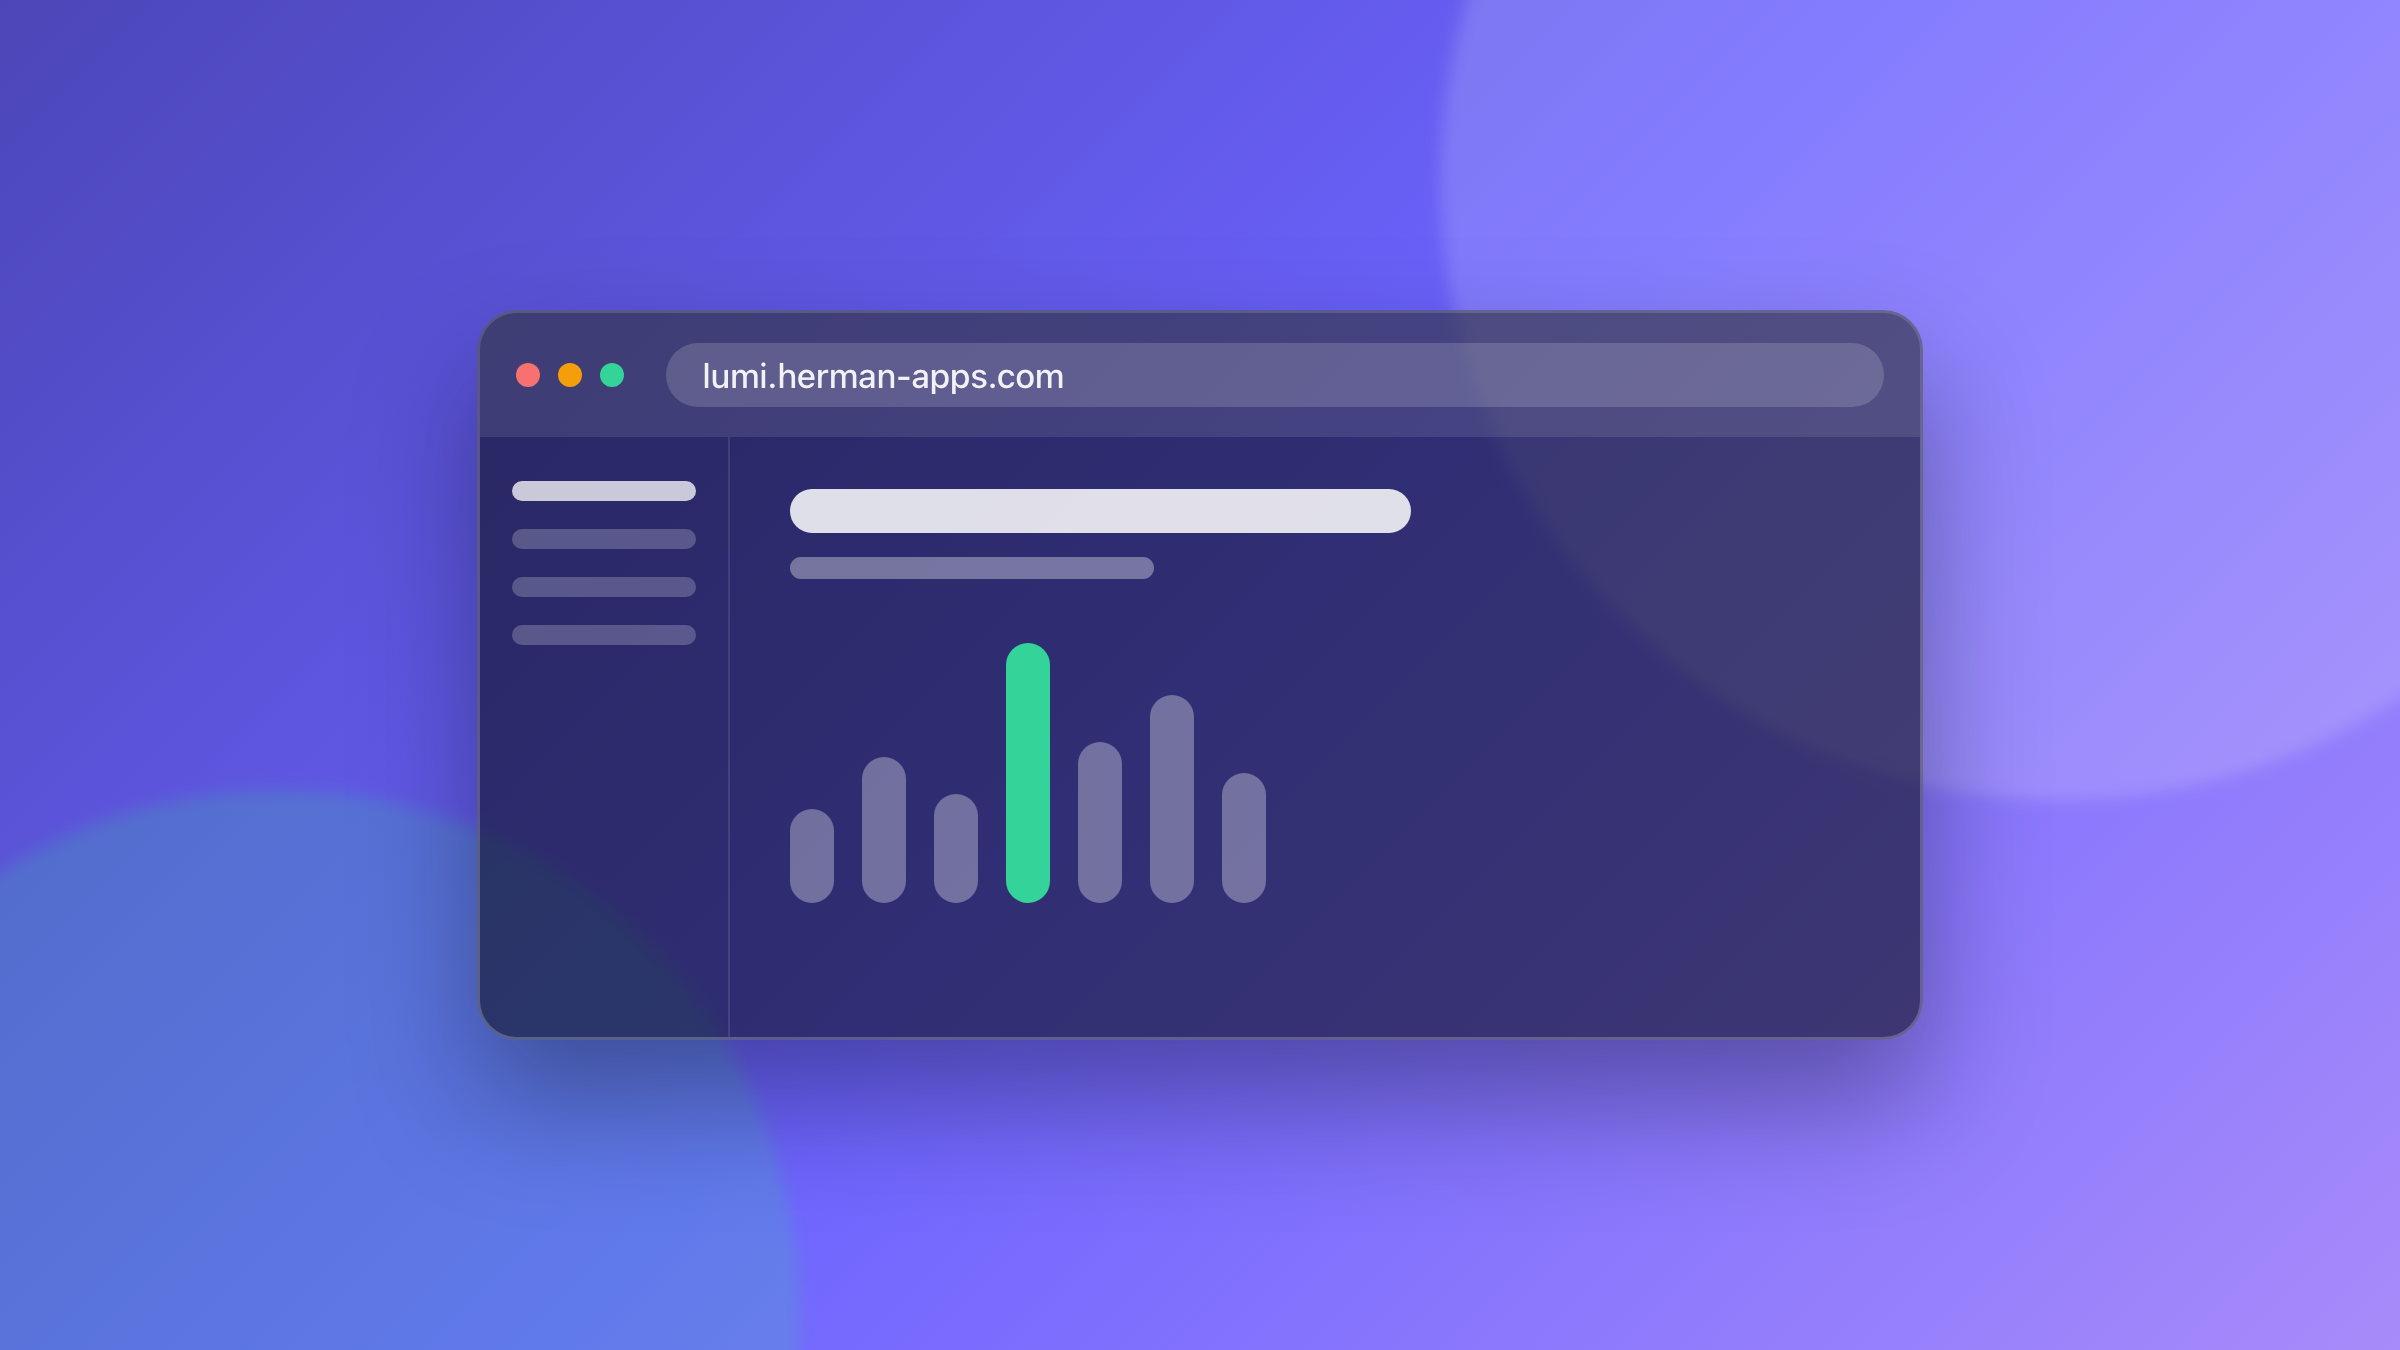
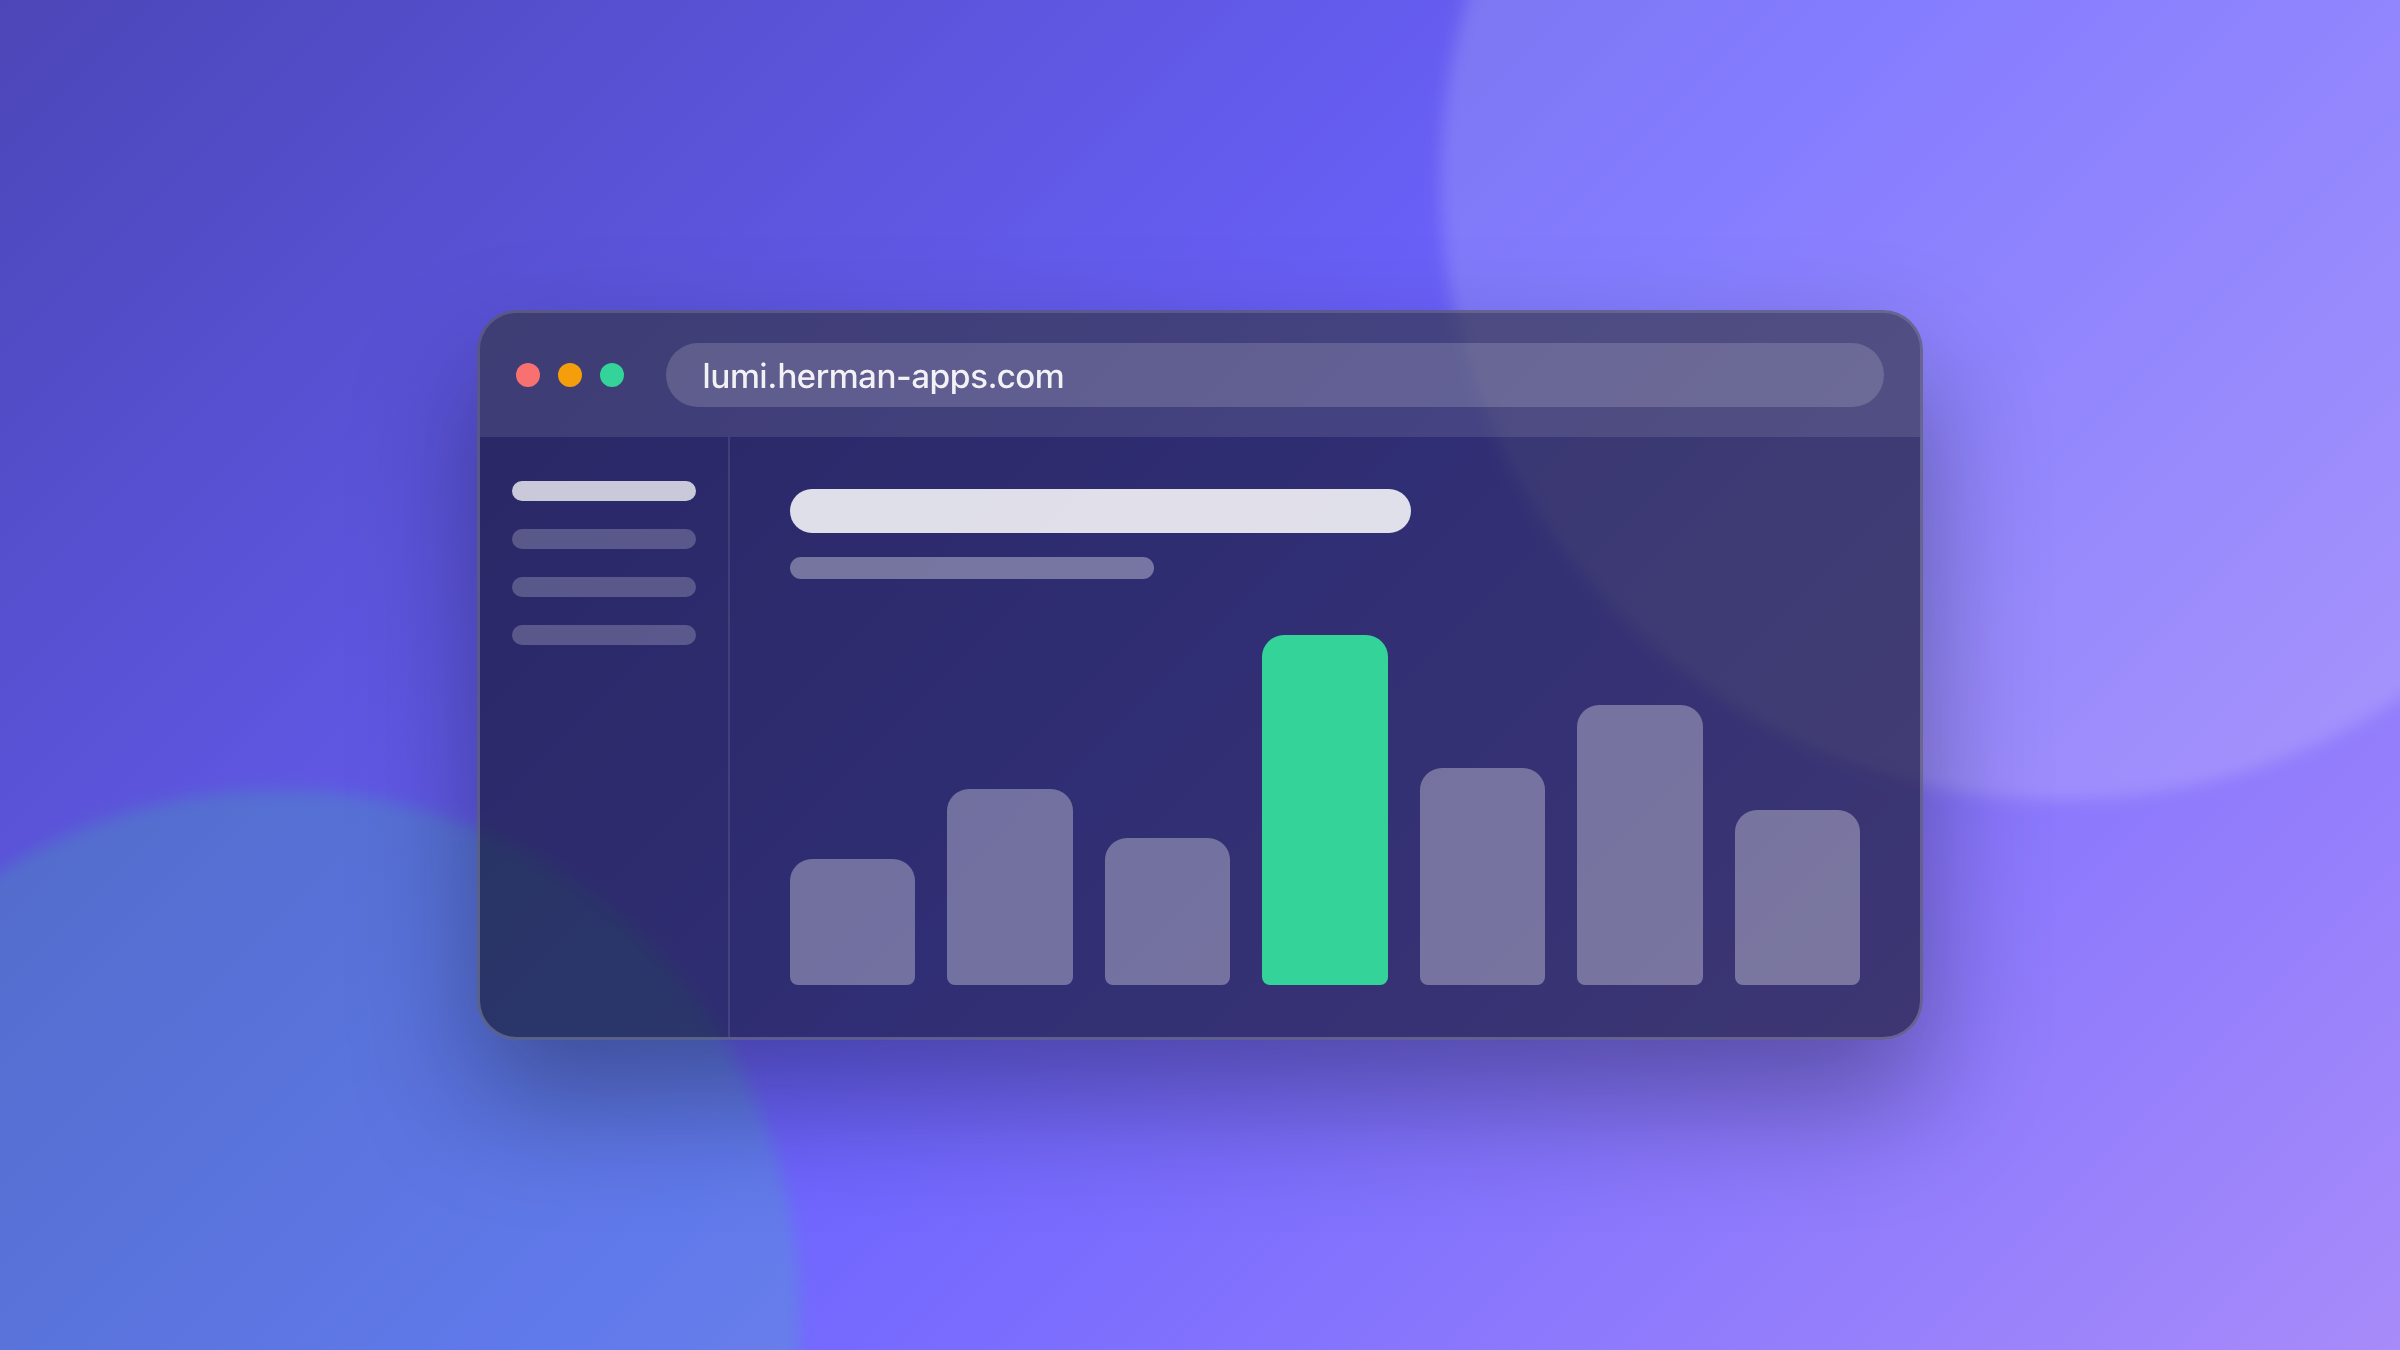
Fix web_app announcement hero: chart bars now fill the browser pane

Changed region(s): [[0.3125, 0.4667, 0.7812, 0.7467]]

diff --git a/public/news/web_app.html b/public/news/web_app.html
@@ -97,11 +97,11 @@ body {
 }
 .sidebar i { height: 10px; border-radius: 5px; background: rgba(255,255,255,0.22); }
 .sidebar i.on { background: rgba(255,255,255,0.75); }
-.pane { flex: 1; padding: 26px 30px; }
+.pane { flex: 1; padding: 26px 30px; display: flex; flex-direction: column; }
 .pane .big { width: 58%; height: 22px; border-radius: 11px; background: rgba(255,255,255,0.85); }
 .pane .small { width: 34%; height: 11px; border-radius: 6px; background: rgba(255,255,255,0.35); margin-top: 12px; }
-.bars { display: flex; align-items: flex-end; gap: 14px; height: 130px; margin-top: 32px; }
-.bars b { width: 22px; border-radius: 11px; background: rgba(255,255,255,0.32); }
+.bars { flex: 1; display: flex; align-items: flex-end; justify-content: space-between; gap: 16px; margin-top: 28px; }
+.bars b { flex: 1; border-radius: 11px 11px 4px 4px; background: rgba(255,255,255,0.32); }
 .bars b.hot { background: var(--mint); }
 </style>
 </head>
